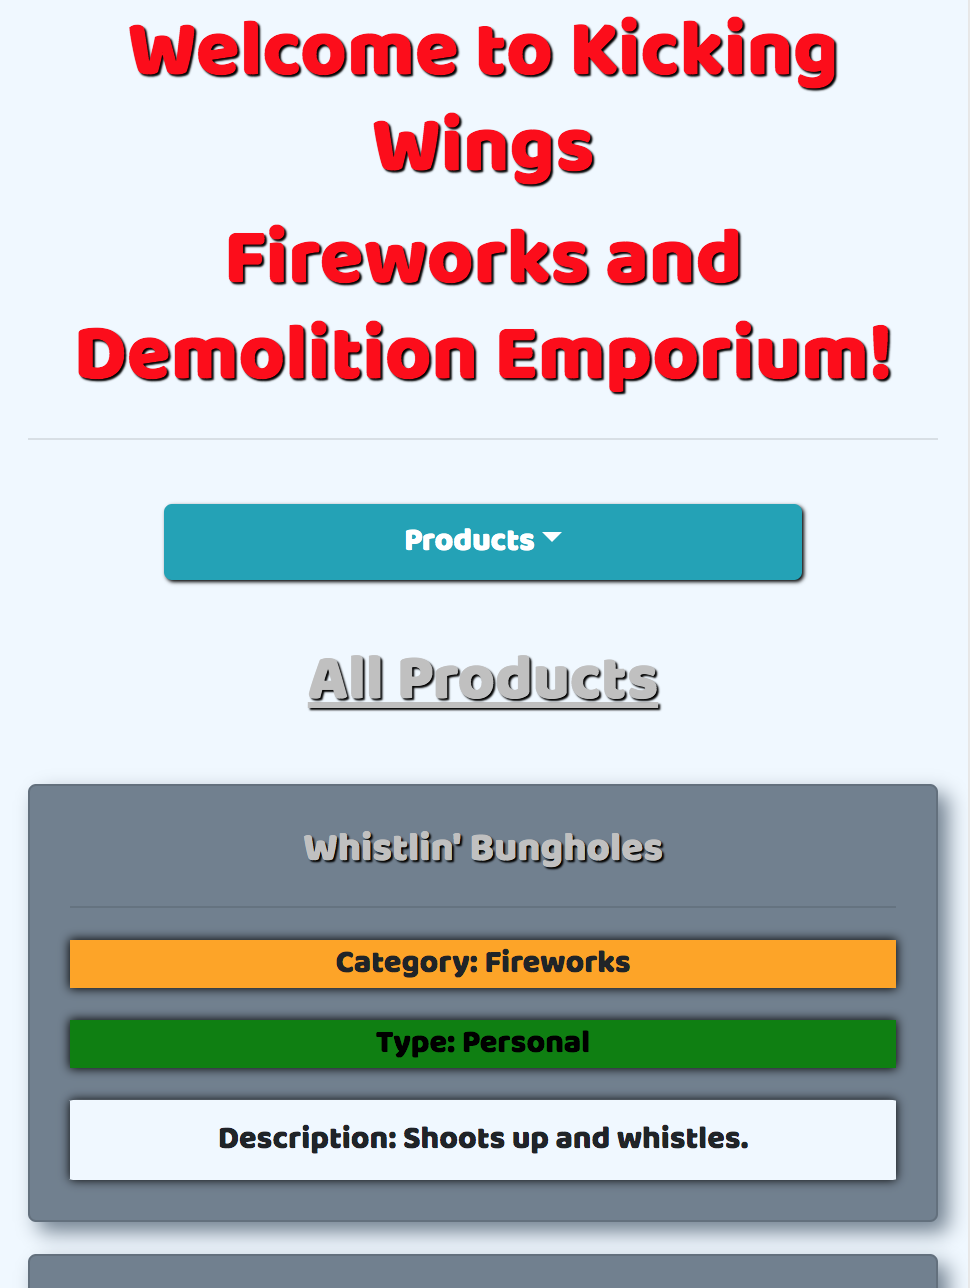
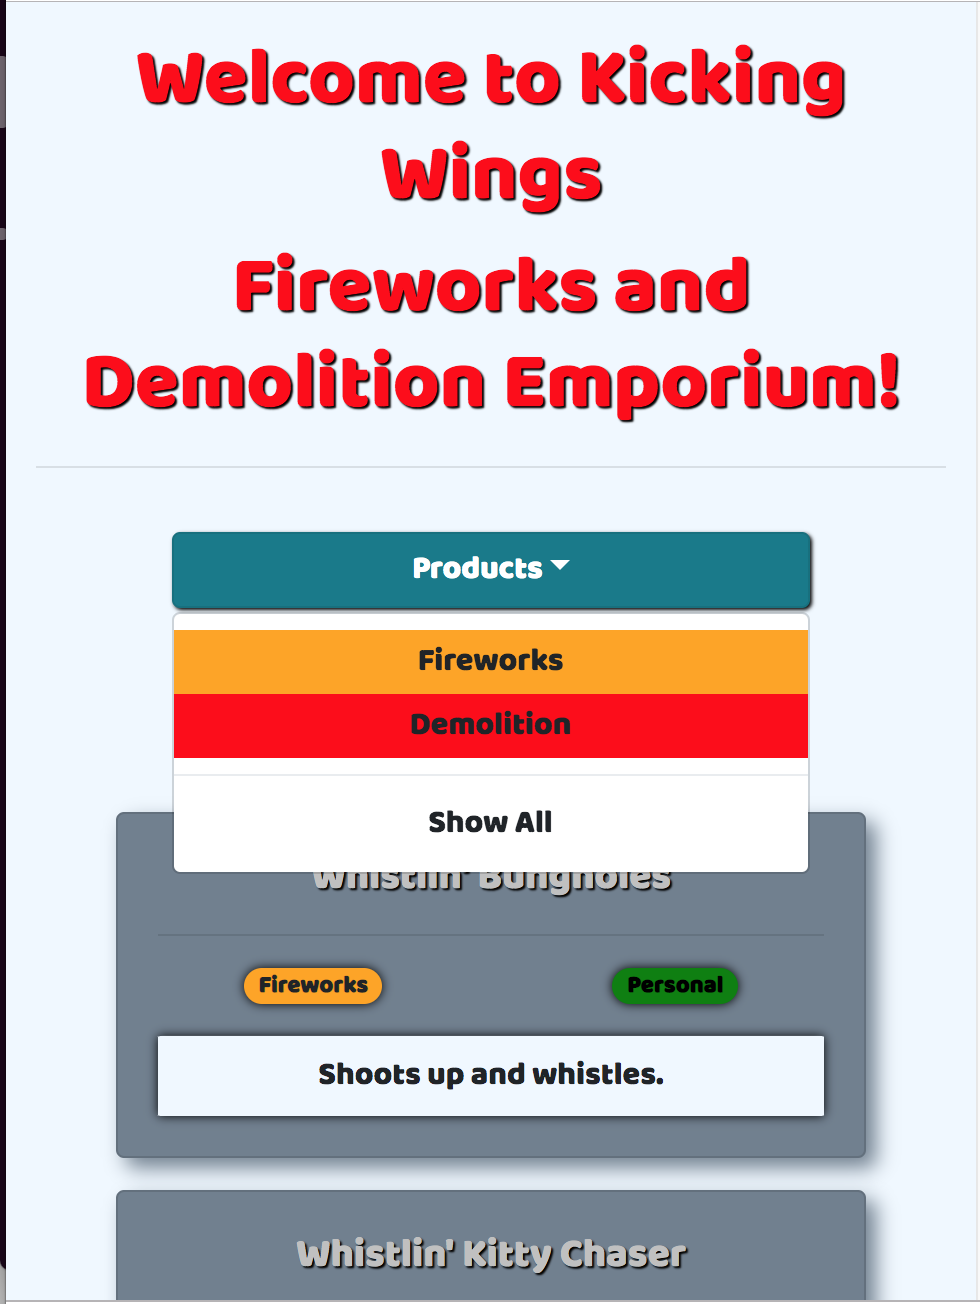
updated pillbadges and readme pics

diff --git a/src/javascripts/components/productsPage.js b/src/javascripts/components/productsPage.js
@@ -26,14 +26,16 @@ const buttonMaker = (arrayOfCategories) => {
 const domStringBuiler = (arrayOfInfo) => {
   let domString = '';
   arrayOfInfo.forEach((product) => {
-    domString += '<div class="d-md-flex col-12 col-md-6 col-lg-3 mb-3">';
-    domString += `<div class="card align-self-stretch product-card ${product.categoryName} ${product.categoryId} ${product.typeId}">`;
+    domString += '<div class="d-flex align-content-stretch col-10 col-md-6 col-lg-3 mb-3">';
+    domString += `<div class="card align-self-stretch flex-grow-1 product-card ${product.categoryName} ${product.categoryId} ${product.typeId}">`;
     domString += '<div class="card-body">';
     domString += `<h5 class="card-title product-name">${product.productName}</h5>`;
     domString += '<hr>';
-    domString += `<p class="card-text category-name">Category: ${product.categoryName}</p>`;
-    domString += `<p class="card-text type-name ${product.typeName}">Type: ${product.typeName}</p>`;
-    domString += `<p class="card-text product-description">Description: ${product.productDescription}</p>`;
+    domString += '<div class="row justify-content-around">';
+    domString += `<p class="card-text badge badge-pill category-name">${product.categoryName}</p>`;
+    domString += `<p class="badge badge-pill type-name ${product.typeName}">${product.typeName}</p>`;
+    domString += '</div>';
+    domString += `<p class="card-text product-description">${product.productDescription}</p>`;
     domString += '</div>';
     domString += '</div>';
     domString += '</div>';
